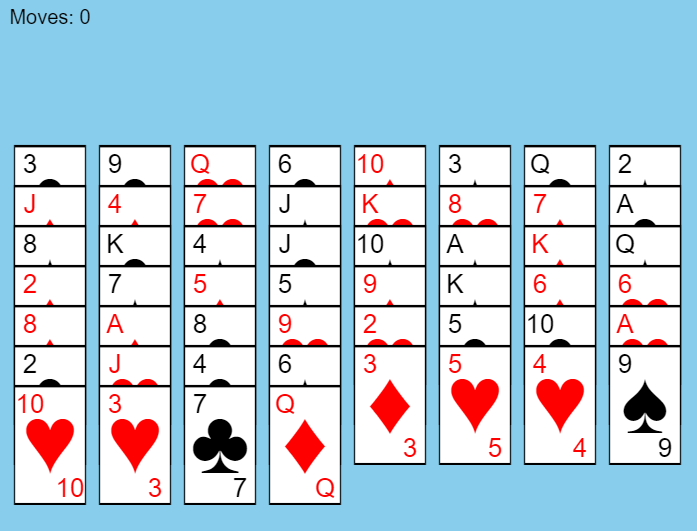
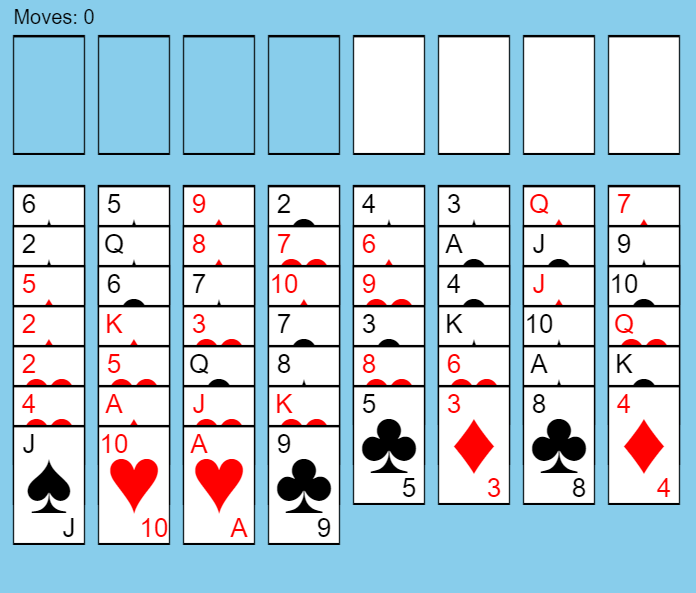
Game updates

diff --git a/src/game.ts b/src/game.ts
@@ -15,12 +15,24 @@ export default class Game implements IGame {
 	private canvas: ICanvas;
 	private hand: IHand;
 	private moves: number = 0;
+	private gameInPlay: boolean = true;
+
+	private readonly cascadeStacks = 8;
 
 	constructor() {
 		this.canvas = new Canvas({ height: 800, width: 700 });
 		this.deck = new Deck();
 		this.hand = new Hand();
-		this.stacks = [new Stack(0), new Stack(1), new Stack(2), new Stack(3), new Stack(4), new Stack(5), new Stack(6), new Stack(7)];
+		this.stacks = [
+			new Stack({ x: 0, y: 250, cascade: true, allowAdditionalCards: true }), new Stack({ x: 1, y: 250, cascade: true, allowAdditionalCards: true }),
+			new Stack({ x: 2, y: 250, cascade: true, allowAdditionalCards: true }), new Stack({ x: 3, y: 250, cascade: true, allowAdditionalCards: true }),
+			new Stack({ x: 4, y: 250, cascade: true, allowAdditionalCards: true }), new Stack({ x: 5, y: 250, cascade: true, allowAdditionalCards: true }),
+			new Stack({ x: 6, y: 250, cascade: true, allowAdditionalCards: true }), new Stack({ x: 7, y: 250, cascade: true, allowAdditionalCards: true }),
+			new Stack({ x: 0, y: 100, cascade: false, allowAdditionalCards: false }), new Stack({ x: 1, y: 100, cascade: false, allowAdditionalCards: false }),
+			new Stack({ x: 2, y: 100, cascade: false, allowAdditionalCards: false }), new Stack({ x: 3, y: 100, cascade: false, allowAdditionalCards: false }),
+			new Stack({ x: 4, y: 100, cascade: false, allowAdditionalCards: true, isHomeSquare: true }), new Stack({ x: 5, y: 100, cascade: false, allowAdditionalCards: true, isHomeSquare: true }),
+			new Stack({ x: 6, y: 100, cascade: false, allowAdditionalCards: true, isHomeSquare: true }), new Stack({ x: 7, y: 100, cascade: false, allowAdditionalCards: true, isHomeSquare: true })
+		];
 	}
 
 	public play = (): void => {
@@ -32,7 +44,7 @@ export default class Game implements IGame {
 		this.deck.shuffle();
 
 		this.deck.cards.forEach((card: ICard, cardIndex: number) => {
-			const stackIndex = cardIndex % this.stacks.length
+			const stackIndex = cardIndex % this.cascadeStacks;
 			this.stacks[stackIndex].addCard(card);
 		});
 	}
@@ -50,6 +62,8 @@ export default class Game implements IGame {
 	}
 
 	private onMouseDown = (event: MouseEvent): void => {
+		if (!this.gameInPlay) return;
+
 		let cards: ICard[] | undefined;
 		this.stacks.forEach((stack: IStack, stackIndex: number) => {
 			cards = stack.findCard(event.x, event.y);
@@ -63,18 +77,32 @@ export default class Game implements IGame {
 	}
 
 	private onMouseUp = (event: MouseEvent): void => {
-		const stack = this.stacks.find((currentStack: IStack) => event.x >= currentStack.x - 28 && event.x <= currentStack.x + 28);
+		if (!this.gameInPlay) return;
+
+		const stack = this.stacks.find((currentStack: IStack) => event.x >= currentStack.x - 28 && event.x <= currentStack.x + 28 && event.y >= currentStack.y - 53);
 		let stackIndex = stack ? this.stacks.indexOf(stack) : this.hand.lastStackIndex;
-		const isValidMove = this.stacks[stackIndex].isValidMove(this.hand.cards[0]);
+		const isValidMove = this.stacks[stackIndex].isValidMove(this.hand.cards);
 
 		const stackToMove = isValidMove ? this.stacks[stackIndex] : this.stacks[this.hand.lastStackIndex];
 		this.hand.cards.forEach((card: ICard) => stackToMove.addCard(card));
 
 		if (isValidMove) this.moves ++;
 		this.hand.drop();
+
+		const isWon = this.stacks.filter((stack: IStack) => stack.isHomeSquare && stack.cards.length > 12).length > 3;
+		this.gameInPlay = !isWon;
+		if (!this.gameInPlay) this.gameWon();
+	}
+
+	private gameWon = (): void => {
+		this.canvas.clear();
+		this.canvas.drawWon(this.moves);
+		this.canvas.publish();
 	}
 
 	private onMouseMove = (event: MouseEvent) => {
+		if (!this.gameInPlay) return;
+
 		this.hand.cards.forEach((card: ICard, cardIndex: number) => {
 			card.x = event.x;
 			card.y = event.y + cardIndex * 40;
@@ -87,6 +115,7 @@ export default class Game implements IGame {
 		this.canvas.clear();
 
 		this.stacks.forEach((stack: IStack) => {
+			this.canvas.drawBlank(stack.x, stack.y, !stack.isHomeSquare)
 			stack.cards.forEach((card: ICard) => {
 				this.canvas.drawCard(card, card.x, card.y);
 			})
@@ -94,6 +123,7 @@ export default class Game implements IGame {
 
 		this.hand.cards.forEach((card: ICard) => this.canvas.drawCard(card, card.x, card.y));
 		this.canvas.displayMoves(this.moves);
+		if (!this.gameInPlay) this.canvas.drawWon(this.moves);
 		this.canvas.publish();
 	}
 }

diff --git a/src/stack.ts b/src/stack.ts
@@ -1,18 +1,28 @@
 import IStack from './interfaces/stack';
+import IStackProps from './interfaces/stack-props';
 import ICard from './interfaces/card';
 
 export default class Stack implements IStack {
+	private cascade: boolean;
+	private allowAdditionalCards: boolean;
+	
 	public cards: ICard[];
 	public x: number;
+	public y: number;
+	public isHomeSquare: boolean;
 
-	constructor(index: number) {
+	constructor(props: IStackProps) {
 		this.cards = [];
-		this.x = index * 85 + 50;
+		this.x = props.x * 85 + 50;
+		this.y = props.y;
+		this.cascade = props.cascade;
+		this.allowAdditionalCards = props.allowAdditionalCards;
+		this.isHomeSquare = props.isHomeSquare || false;
 	}
 
 	public addCard = (card: ICard): void => {
 		card.x = this.x;
-		card.y = this.cards.length * 40 + 210;
+		card.y = this.cascade ? this.cards.length * 40 + this.y : this.y;
 		this.cards.push(card);
 	}
 
@@ -42,5 +52,29 @@ export default class Stack implements IStack {
 		return returnedCard;
 	}
 
-	public isValidMove = (currentCard: ICard, nextCard: ICard = this.cards[this.cards.length - 1]): boolean => currentCard?.isBlack !== nextCard?.isBlack && currentCard?.cost === nextCard?.cost - 1;
+	public isValidMove = (currentCards: ICard[], nextCard: ICard = this.cards[this.cards.length - 1]): boolean => {
+		if (!currentCards.length) return false;
+
+		const currentCard = currentCards[0];
+
+		if (this.isHomeSquare) {
+			return (this.isStackEmpty() && this.isCardAce(currentCard)) ||
+			(this.isSuiteSame(currentCard, nextCard) && this.isCostOneMore(currentCard, nextCard))
+		}
+
+		const isAllowedToAddMoreThanOne = this.allowAdditionalCards ? this.allowAdditionalCards : currentCards.length === 1;
+
+		return (this.isStackEmpty() && isAllowedToAddMoreThanOne) ||
+		((this.isCardsInStack() && isAllowedToAddMoreThanOne) &&
+		(this.isSuiteDifferent(currentCard, nextCard) && this.isCostOneLess(currentCard, nextCard)));
+	}
+
+	private isSuiteDifferent = (currentCard: ICard, nextCard: ICard): boolean => currentCard?.isBlack !== nextCard?.isBlack;
+	private isSuiteSame = (currentCard: ICard, nextCard: ICard): boolean => currentCard?.suite === nextCard?.suite;
+	private isCostOneLess = (currentCard: ICard, nextCard: ICard): boolean => currentCard?.cost === nextCard?.cost - 1;
+	private isCostOneMore = (currentCard: ICard, nextCard: ICard): boolean => currentCard?.cost === nextCard?.cost + 1;
+	private isCardAce = (currentCard: ICard): boolean => currentCard.cost === 1;
+	private isStackEmpty = (): boolean => this.cards.length === 0;
+	private isCardsInStack = (): boolean => this.cards.length > 0;
+	private isAllowedToAddMoreThanOne = (): boolean => this.allowAdditionalCards;
 }

diff --git a/src/canvas.ts b/src/canvas.ts
@@ -10,6 +10,7 @@ export default class Canvas implements ICanvas {
 	private readonly DEFAULT_CARD_BACKGROUND_COLOUR = '#000';
 	private readonly DEFAULT_CARD_OUTLINE_COLOUR = '#FFF';
 	private readonly DEFAULT_CARD_BACKGROUND = String.fromCharCode(9608);
+	private readonly DEFAULT_FONT_COLOUR = '#000';
 
 	constructor(props: ICanvasProps) {
 		this.canvas = document.createElement('canvas');
@@ -19,6 +20,17 @@ export default class Canvas implements ICanvas {
 		this.canvas.style.backgroundColor = props.backgroundColour ? props.backgroundColour : this.DEFAULT_BACKGROUND_COLOUR;
 
 		this.ctx = this.canvas.getContext('2d');
+	}
+
+	public drawWon = (moves: number): void => {
+		this.drawBox(50, 50, this.canvas.width - 100, 200, '#FFF')
+		this.drawText(350, 100, 50, '#000', 'Congratulations');
+		this.drawText(350, 180, 20, '#000', `You completed the game in ${ moves } moves`);
+	}
+
+	public drawBlank = (x: number, y: number, showCardBackground: boolean): void => {
+		this.drawText(x, y , 99, this.DEFAULT_CARD_BACKGROUND_COLOUR, this.DEFAULT_CARD_BACKGROUND);
+		this.drawText(x , y, 95, showCardBackground ? this.DEFAULT_BACKGROUND_COLOUR : this.DEFAULT_CARD_OUTLINE_COLOUR, this.DEFAULT_CARD_BACKGROUND);
 	}
 
 	public drawCard = (card: ICard, x: number, y: number): void => {
@@ -38,9 +50,7 @@ export default class Canvas implements ICanvas {
 	public displayMoves = (moves: number): void => {
 		if (!this.ctx) return;
 
-		this.ctx.font = `20px arial`;
-		this.ctx.fillStyle = '#000';
-		this.ctx.fillText(`Moves: ${ moves }`, 50, 20);
+		this.drawText(55, 20, 20, '#000', `Moves: ${ moves }`);
 	}
 
 	private drawText = (x: number, y: number, size: number, colour: string, text: string): void => {
@@ -51,5 +61,15 @@ export default class Canvas implements ICanvas {
 		this.ctx.font = `${ size }px arial`;
 		this.ctx.fillStyle = colour;
 		this.ctx.fillText(text, x, y);
+	}
+
+	private drawBox = (x: number, y: number, width: number, height: number, colour: string): void => {
+		if (!this.ctx) return;
+
+		this.ctx.fillStyle = colour;
+		this.ctx.fillRect(x, y, width, height);
+		this.ctx.strokeRect(x, y, width, height);
+		this.ctx.fill();
+		this.ctx.stroke();
 	}
 }

diff --git a/src/interfaces/stack.ts b/src/interfaces/stack.ts
@@ -3,7 +3,9 @@ import ICard from './card';
 export default interface IStack {
 	cards: ICard[];
 	x: number;
+	y: number;
+	isHomeSquare: boolean
 	addCard(card: ICard): void;
 	findCard(x: number, y: number): ICard[] | undefined;
-	isValidMove(card: ICard, nextCard?: ICard): boolean;
+	isValidMove(currentCards: ICard[], nextCard?: ICard): boolean;
 }

diff --git a/src/interfaces/canvas.ts b/src/interfaces/canvas.ts
@@ -3,6 +3,8 @@ import ICard from './card';
 export default interface ICanvas {
 	publish(): HTMLCanvasElement;
 	clear(): void | null;
+	drawWon(moves: number): void;
+	drawBlank(x: number, y: number, showCardBackground: boolean): void;
 	drawCard(card: ICard, x: number, y: number): void;
 	displayMoves(moves: number): void;
 }

diff --git a/src/interfaces/stack-props.ts b/src/interfaces/stack-props.ts
@@ -1,0 +1,7 @@
+export default interface IStackProps {
+	x: number;
+	y: number;
+	cascade: boolean;
+	allowAdditionalCards: boolean;
+	isHomeSquare?: boolean;
+}

diff --git a/README.md b/README.md
@@ -20,7 +20,10 @@ $ open ./public/index.html in your web browser
 ```
 
 ## <a name="Shots">Screen Shots</a>
-[![Screenshot](https://raw.githubusercontent.com/adrianeyre/free-cell/master/images/screenshot1.png)](https://raw.githubusercontent.com/adrianeyre/free-cell/master/images/screenshot1.png "Game View")
+[![Screenshot](https://raw.githubusercontent.com/adrianeyre/free-cell/master/images/screenshot1.png)](https://raw.githubusercontent.com/adrianeyre/free-cell/
+master/images/screenshot1.png "Game View")
+
+[![Screenshot](https://raw.githubusercontent.com/adrianeyre/free-cell/master/images/screenshot2.png)](https://raw.githubusercontent.com/adrianeyre/free-cell/master/images/screenshot2.png "Game View")
 
 
 ## <a name="Play">Play Free Cell</a>
